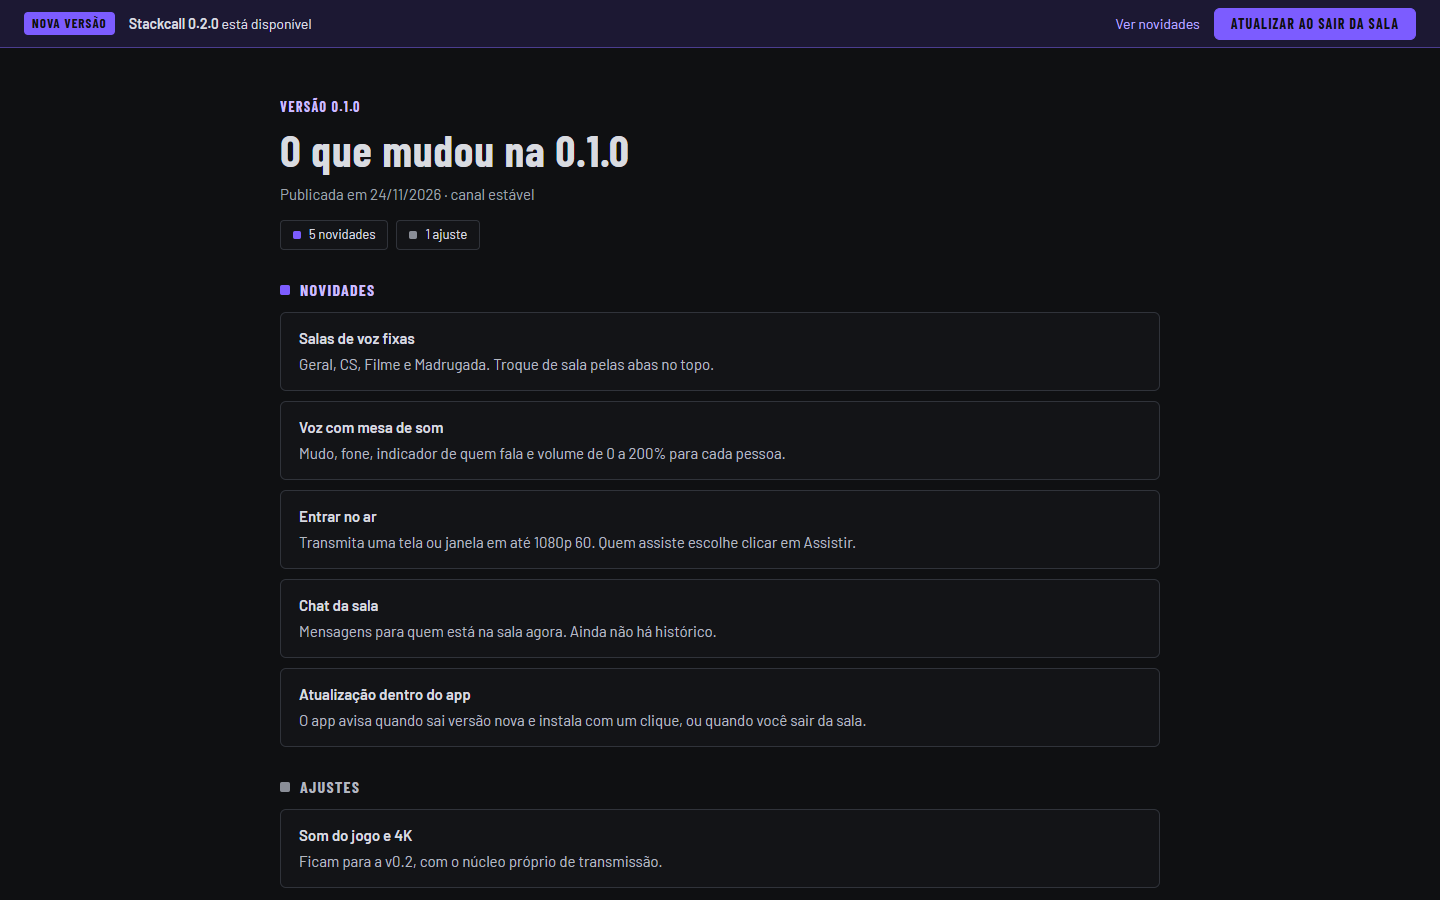
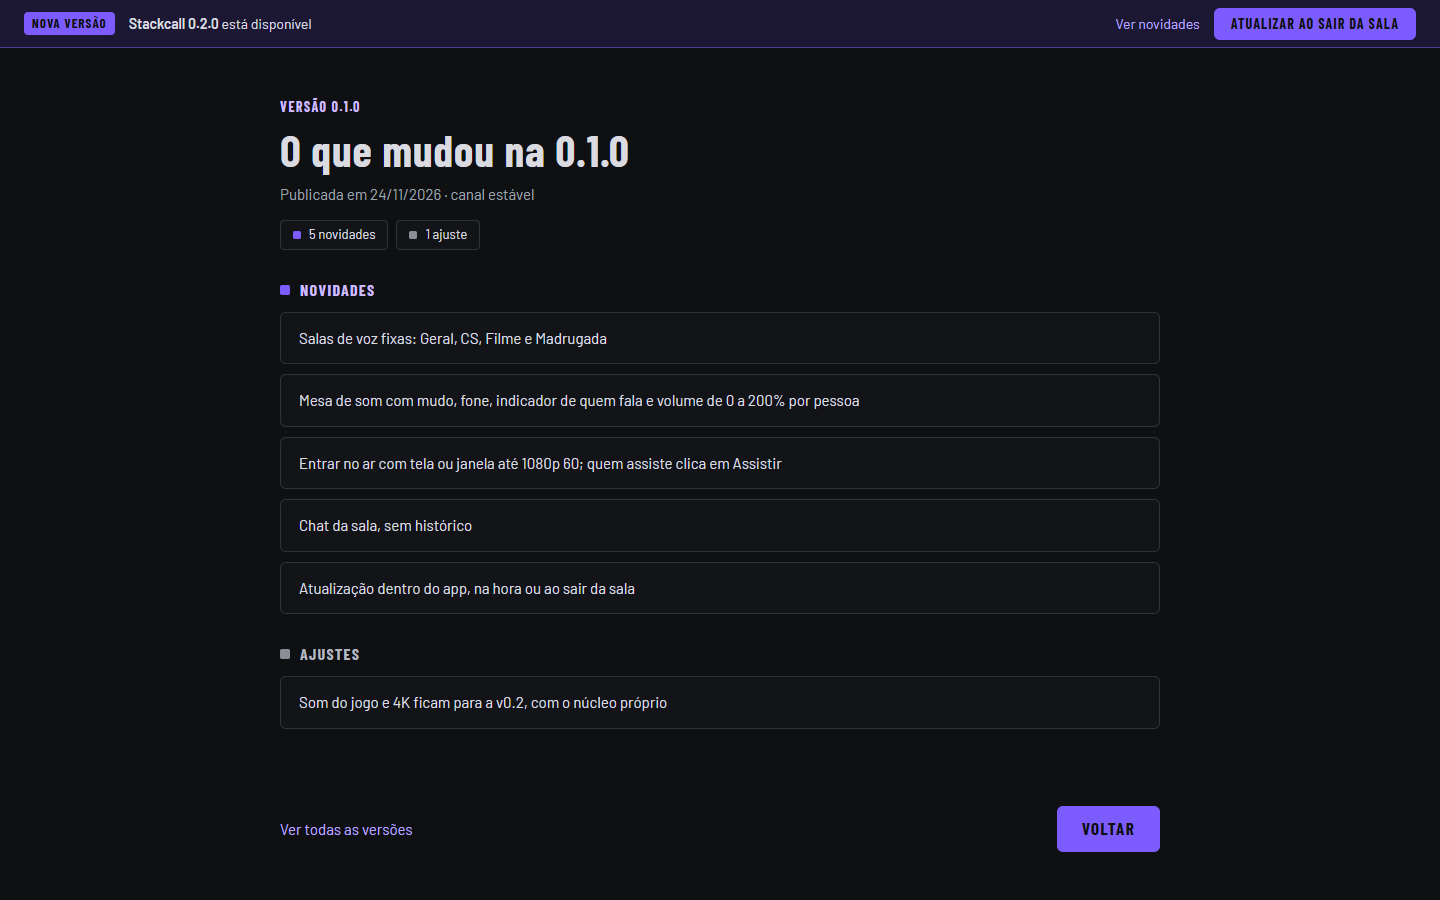
fix: read changelog.json in the scripts/changelog-json.mjs format
Release notes and the version history now use the list of versions with
categories and messages generated by the release workflow; the bundled
copy stays as the offline fallback. Rust code formatted for cargo fmt.

Changed region(s): [[0.1875, 0.3733, 0.8125, 0.8089], [0.1875, 0.8711, 0.4688, 0.9644], [0.7188, 0.8711, 0.8125, 0.9644]]

diff --git a/app/src/lib/changelog.ts b/app/src/lib/changelog.ts
@@ -1,27 +1,31 @@
 import { invoke, isTauri } from '@tauri-apps/api/core';
 import bundled from '../changelog.json';
 
-export const CATEGORIES = ['novidades', 'melhorias', 'correcoes', 'ajustes'] as const;
+/** Format written by scripts/changelog-json.mjs (docs/VERSIONAMENTO.md, section 2). */
+export const CATEGORIES = ['Novidades', 'Melhorias', 'Correções', 'Ajustes'] as const;
 export type Category = (typeof CATEGORIES)[number];
-export type ChangeItem = { category: Category; title: string; text: string };
-export type Version = { version: string; date: string; items: ChangeItem[] };
+export type ChangeItem = { message: string; breaking: boolean };
+export type Version = { version: string; date: string; categories: { name: Category; items: ChangeItem[] }[] };
 
 const isString = (v: unknown): v is string => typeof v === 'string';
 
 /** Validates untrusted changelog JSON; drops anything malformed. */
 export function parseChangelog(raw: unknown): Version[] {
-  const versions = (raw as { versions?: unknown })?.versions;
-  if (!Array.isArray(versions)) return [];
-  return versions.flatMap((v): Version[] => {
-    if (!isString(v?.version) || !isString(v?.date) || !Array.isArray(v?.items)) return [];
-    const items = v.items.filter(
-      (i: ChangeItem) => CATEGORIES.includes(i?.category) && isString(i.title) && isString(i.text),
-    );
-    return [{ version: v.version, date: v.date, items }];
+  if (!Array.isArray(raw)) return [];
+  return raw.flatMap((v): Version[] => {
+    if (!isString(v?.version) || !isString(v?.date) || !Array.isArray(v?.categories)) return [];
+    const categories = v.categories.flatMap((c: { name?: unknown; items?: unknown }) => {
+      if (!CATEGORIES.includes(c?.name as Category) || !Array.isArray(c.items)) return [];
+      const items = c.items
+        .filter((i: ChangeItem) => isString(i?.message))
+        .map((i: ChangeItem) => ({ message: i.message, breaking: i.breaking === true }));
+      return items.length ? [{ name: c.name as Category, items }] : [];
+    });
+    return [{ version: v.version, date: v.date, categories }];
   });
 }
 
-const parts = (v: string) => v.split('.').map((n) => parseInt(n, 10) || 0);
+const parts = (v: string) => v.split(/[.-]/).map((n) => parseInt(n, 10) || 0);
 export function compareVersions(a: string, b: string) {
   const [x, y] = [parts(a), parts(b)];
   for (let i = 0; i < 3; i++) if ((x[i] ?? 0) !== (y[i] ?? 0)) return (x[i] ?? 0) - (y[i] ?? 0);
@@ -37,17 +41,22 @@ export function mergeChangelogs(local: Version[], remote: Version[]) {
 
 export const bundledChangelog = () => parseChangelog(bundled);
 
+/** The changelog.json attached to the latest release; the bundled copy when offline. */
 export async function loadChangelog(): Promise<Version[]> {
   const local = bundledChangelog();
   if (!isTauri()) return local;
   try {
     return mergeChangelogs(local, parseChangelog(JSON.parse(await invoke<string>('remote_changelog'))));
   } catch {
-    return local; // offline or release without changelog.json
+    return local;
   }
 }
+
+export const countOf = (v: Version, name: Category) => v.categories.find((c) => c.name === name)?.items.length ?? 0;
 
 export const formatDate = (iso: string) => {
   const [y, m, d] = iso.split('-');
   return d && m && y ? `${d}/${m}/${y}` : iso;
 };
+
+export const upperFirst = (s: string) => s.charAt(0).toUpperCase() + s.slice(1);

diff --git a/app/src/screens/Novidades.tsx b/app/src/screens/Novidades.tsx
@@ -1,11 +1,11 @@
 import { useEffect, useState } from 'react';
-import { CATEGORIES, bundledChangelog, formatDate, loadChangelog, type Version } from '../lib/changelog';
+import { CATEGORIES, bundledChangelog, formatDate, loadChangelog, upperFirst, type Version } from '../lib/changelog';
 
 const GROUP: Record<(typeof CATEGORIES)[number], { title: string; label: string; one: string; dot: string; color: string }> = {
-  novidades: { title: 'NOVIDADES', label: 'novidades', one: 'novidade', dot: '#7c5cff', color: '#cbbdff' },
-  melhorias: { title: 'MELHORIAS', label: 'melhorias', one: 'melhoria', dot: '#7fb8a4', color: '#a9d6c6' },
-  correcoes: { title: 'CORREÇÕES', label: 'correções', one: 'correção', dot: '#d9a35b', color: '#e8c08c' },
-  ajustes: { title: 'AJUSTES', label: 'ajustes', one: 'ajuste', dot: '#8a8e97', color: '#b4b8c0' },
+  Novidades: { title: 'NOVIDADES', label: 'novidades', one: 'novidade', dot: '#7c5cff', color: '#cbbdff' },
+  Melhorias: { title: 'MELHORIAS', label: 'melhorias', one: 'melhoria', dot: '#7fb8a4', color: '#a9d6c6' },
+  Correções: { title: 'CORREÇÕES', label: 'correções', one: 'correção', dot: '#d9a35b', color: '#e8c08c' },
+  Ajustes: { title: 'AJUSTES', label: 'ajustes', one: 'ajuste', dot: '#8a8e97', color: '#b4b8c0' },
 };
 
 /** Notes for one version; `from` is the version before an update (shown once after updating). */
@@ -13,7 +13,7 @@ export function Novidades({ from, current, onClose, onHistory }: { from: string 
   const [versions, setVersions] = useState<Version[]>(bundledChangelog);
   useEffect(() => void loadChangelog().then(setVersions), []);
   const v = versions.find((x) => x.version === current) ?? versions[0];
-  const groups = v ? CATEGORIES.map((c) => ({ c, items: v.items.filter((i) => i.category === c) })).filter((g) => g.items.length) : [];
+  const groups = v ? CATEGORIES.flatMap((c) => v.categories.filter((g) => g.name === c).map((g) => ({ c, items: g.items }))) : [];
 
   return (
     <div role="dialog" aria-modal="true" aria-label="Novidades" className="absolute inset-0 z-30 flex justify-center overflow-y-auto bg-bg text-[15px]">
@@ -40,10 +40,10 @@ export function Novidades({ from, current, onClose, onHistory }: { from: string 
               <span className="size-2.5 rounded-[2px]" style={{ background: GROUP[g.c].dot }} />
               {GROUP[g.c].title}
             </h2>
-            {g.items.map((i) => (
-              <div key={i.title} className="flex flex-col gap-1 rounded-[6px] border border-line bg-panel px-[18px] py-3.5">
-                <b className="font-semibold">{i.title}</b>
-                <span className="leading-normal text-[#b4b8c0]">{i.text}</span>
+            {g.items.map((i, n) => (
+              <div key={n} className="flex items-center gap-3 rounded-[6px] border border-line bg-panel px-[18px] py-3.5">
+                <span className="leading-normal">{upperFirst(i.message)}</span>
+                {i.breaking && <span className="label-caps ml-auto rounded bg-danger-bg px-2 py-0.5 text-[12px] text-danger-text">Exige atualizar</span>}
               </div>
             ))}
           </section>

diff --git a/app/src/lib/changelog.test.ts b/app/src/lib/changelog.test.ts
@@ -5,22 +5,34 @@ test('bundled changelog has the app version', () => {
   expect(bundledChangelog()[0].version).toBe(pkg.version);
 });
 
-test('parse drops malformed entries', () => {
-  const parsed = parseChangelog({
-    versions: [
-      { version: '0.2.0', date: '2026-12-01', items: [{ category: 'novidades', title: 'a', text: 'b' }, { category: 'x', title: 'c', text: 'd' }] },
-      { version: 2 },
+test('parses the scripts/changelog-json.mjs format and drops malformed entries', () => {
+  const parsed = parseChangelog([
+    {
+      version: '0.2.0',
+      date: '2026-12-01',
+      categories: [
+        { name: 'Novidades', items: [{ message: 'push-to-talk', breaking: false }, { nope: 1 }] },
+        { name: 'Outra', items: [{ message: 'x', breaking: false }] },
+        { name: 'Correções', items: [{ message: 'nova API', breaking: true }] },
+      ],
+    },
+    { version: 2 },
+  ]);
+  expect(parsed).toEqual([{
+    version: '0.2.0',
+    date: '2026-12-01',
+    categories: [
+      { name: 'Novidades', items: [{ message: 'push-to-talk', breaking: false }] },
+      { name: 'Correções', items: [{ message: 'nova API', breaking: true }] },
     ],
-  });
-  expect(parsed).toHaveLength(1);
-  expect(parsed[0].items).toHaveLength(1);
-  expect(parseChangelog('nope')).toEqual([]);
+  }]);
+  expect(parseChangelog({ versions: [] })).toEqual([]);
 });
 
 test('merge sorts newest first and remote wins', () => {
   const merged = mergeChangelogs(
-    [{ version: '0.1.0', date: 'a', items: [] }],
-    [{ version: '0.10.0', date: 'b', items: [] }, { version: '0.1.0', date: 'c', items: [] }],
+    [{ version: '0.1.0', date: 'a', categories: [] }],
+    [{ version: '0.10.0', date: 'b', categories: [] }, { version: '0.1.0', date: 'c', categories: [] }],
   );
   expect(merged.map((v) => v.version + v.date)).toEqual(['0.10.0b', '0.1.0c']);
   expect(compareVersions('0.9.1', '0.10.0')).toBeLessThan(0);

diff --git a/app/src/screens/Settings.tsx b/app/src/screens/Settings.tsx
@@ -1,20 +1,20 @@
 import { useEffect, useState } from 'react';
-import { CATEGORIES, formatDate, loadChangelog, type Version } from '../lib/changelog';
+import { CATEGORIES, countOf, formatDate, loadChangelog, type Version } from '../lib/changelog';
 import type { useUpdater } from '../lib/updater';
 import { updateButtonLabel } from '../components/UpdateBanner';
 
 type Updater = ReturnType<typeof useUpdater>;
 
 const CATEGORY_LABEL: Record<(typeof CATEGORIES)[number], [string, string]> = {
-  novidades: ['novidade', 'novidades'],
-  melhorias: ['melhoria', 'melhorias'],
-  correcoes: ['correção', 'correções'],
-  ajustes: ['ajuste', 'ajustes'],
+  Novidades: ['novidade', 'novidades'],
+  Melhorias: ['melhoria', 'melhorias'],
+  Correções: ['correção', 'correções'],
+  Ajustes: ['ajuste', 'ajustes'],
 };
 
 export function summarize(v: Version) {
   return CATEGORIES.flatMap((c) => {
-    const n = v.items.filter((i) => i.category === c).length;
+    const n = countOf(v, c);
     return n ? [`${n} ${CATEGORY_LABEL[c][n === 1 ? 0 : 1]}`] : [];
   }).join(', ');
 }
